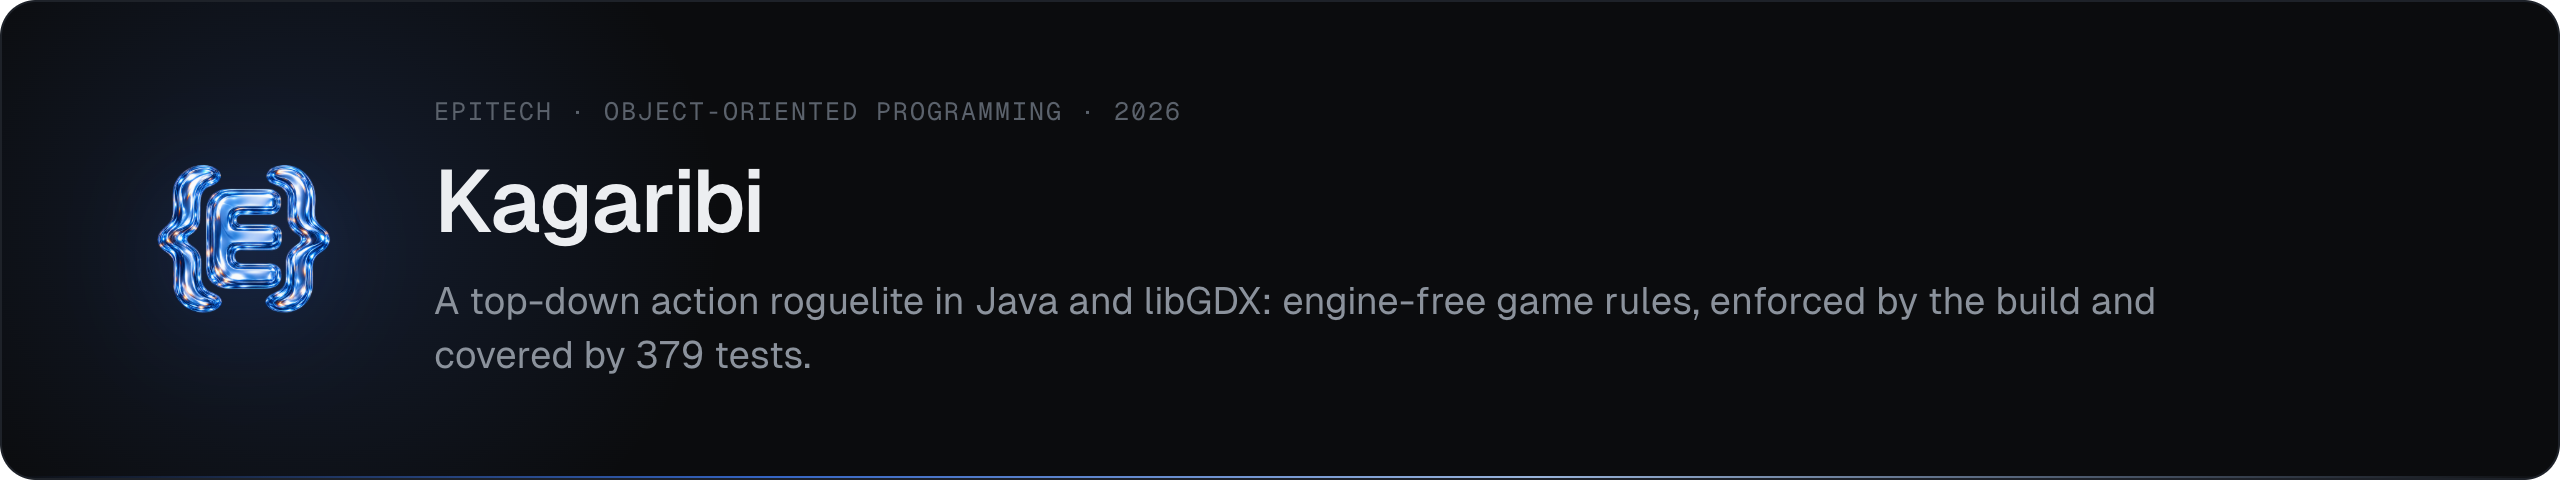
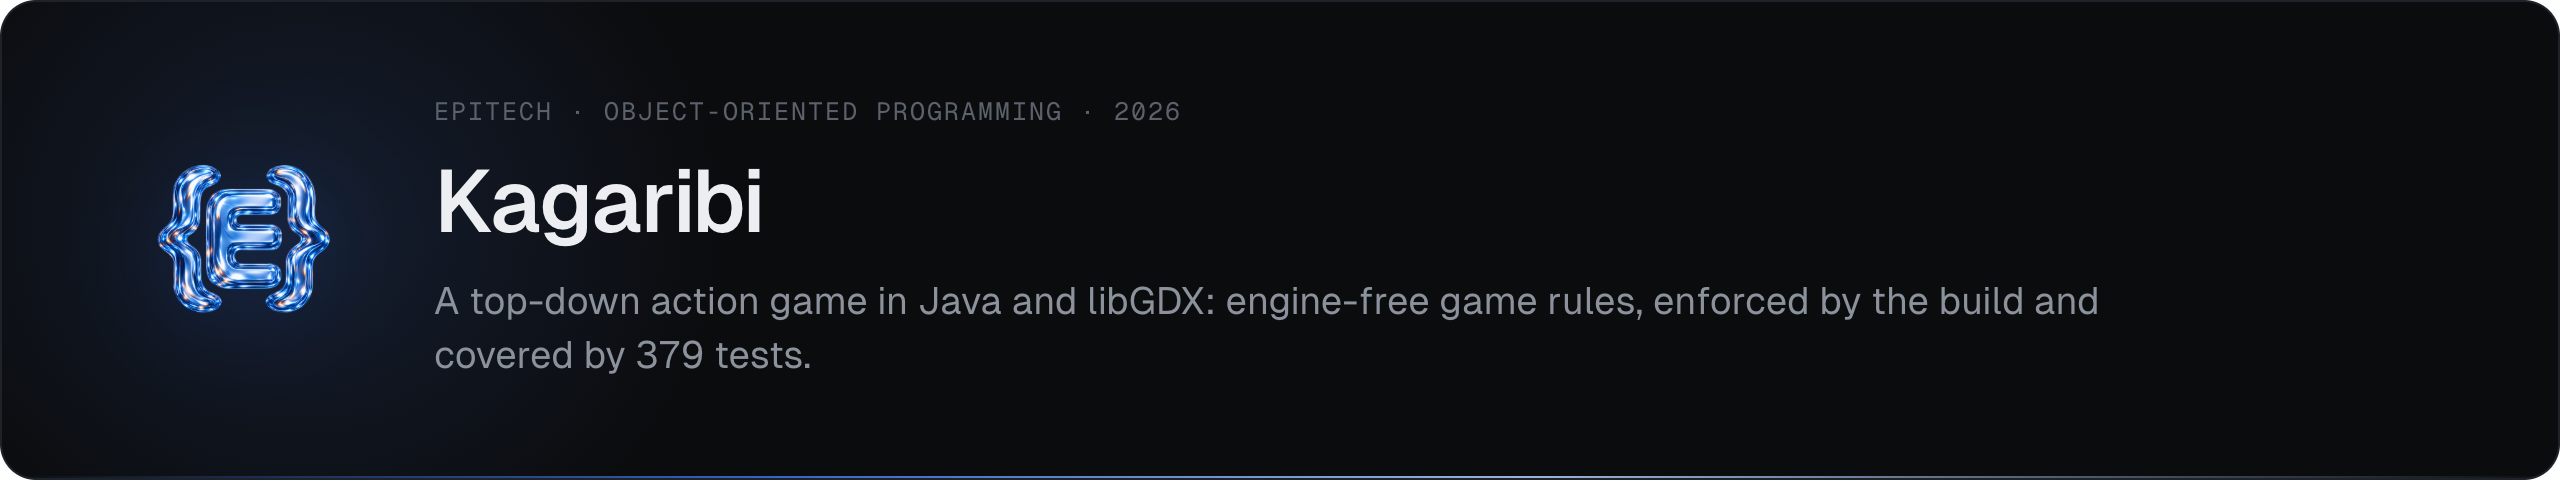
docs: mise à jour de la vitrine

Changed region(s): [[0.2812, 0.5938, 0.8438, 0.6562]]

diff --git a/README.md b/README.md
@@ -1,4 +1,4 @@
-<picture><source media="(prefers-color-scheme: dark)" srcset="assets/banner-dark.png"><img alt="Kagaribi — A top-down action roguelite in Java and libGDX: engine-free game rules, enforced by the build and covered by 379 tests." src="assets/banner-light.png"></picture>
+<picture><source media="(prefers-color-scheme: dark)" srcset="assets/banner-dark.png"><img alt="Kagaribi — A top-down action game in Java and libGDX: engine-free game rules, enforced by the build and covered by 379 tests." src="assets/banner-light.png"></picture>
 
 **Epitech Bachelor · Year 2 · Object-oriented programming (B-OOP-301) · Oct 2026**  
 Source code is private under Epitech's academic policy. Happy to walk you through it or demo it live → **imran.nogueira@gmail.com**
